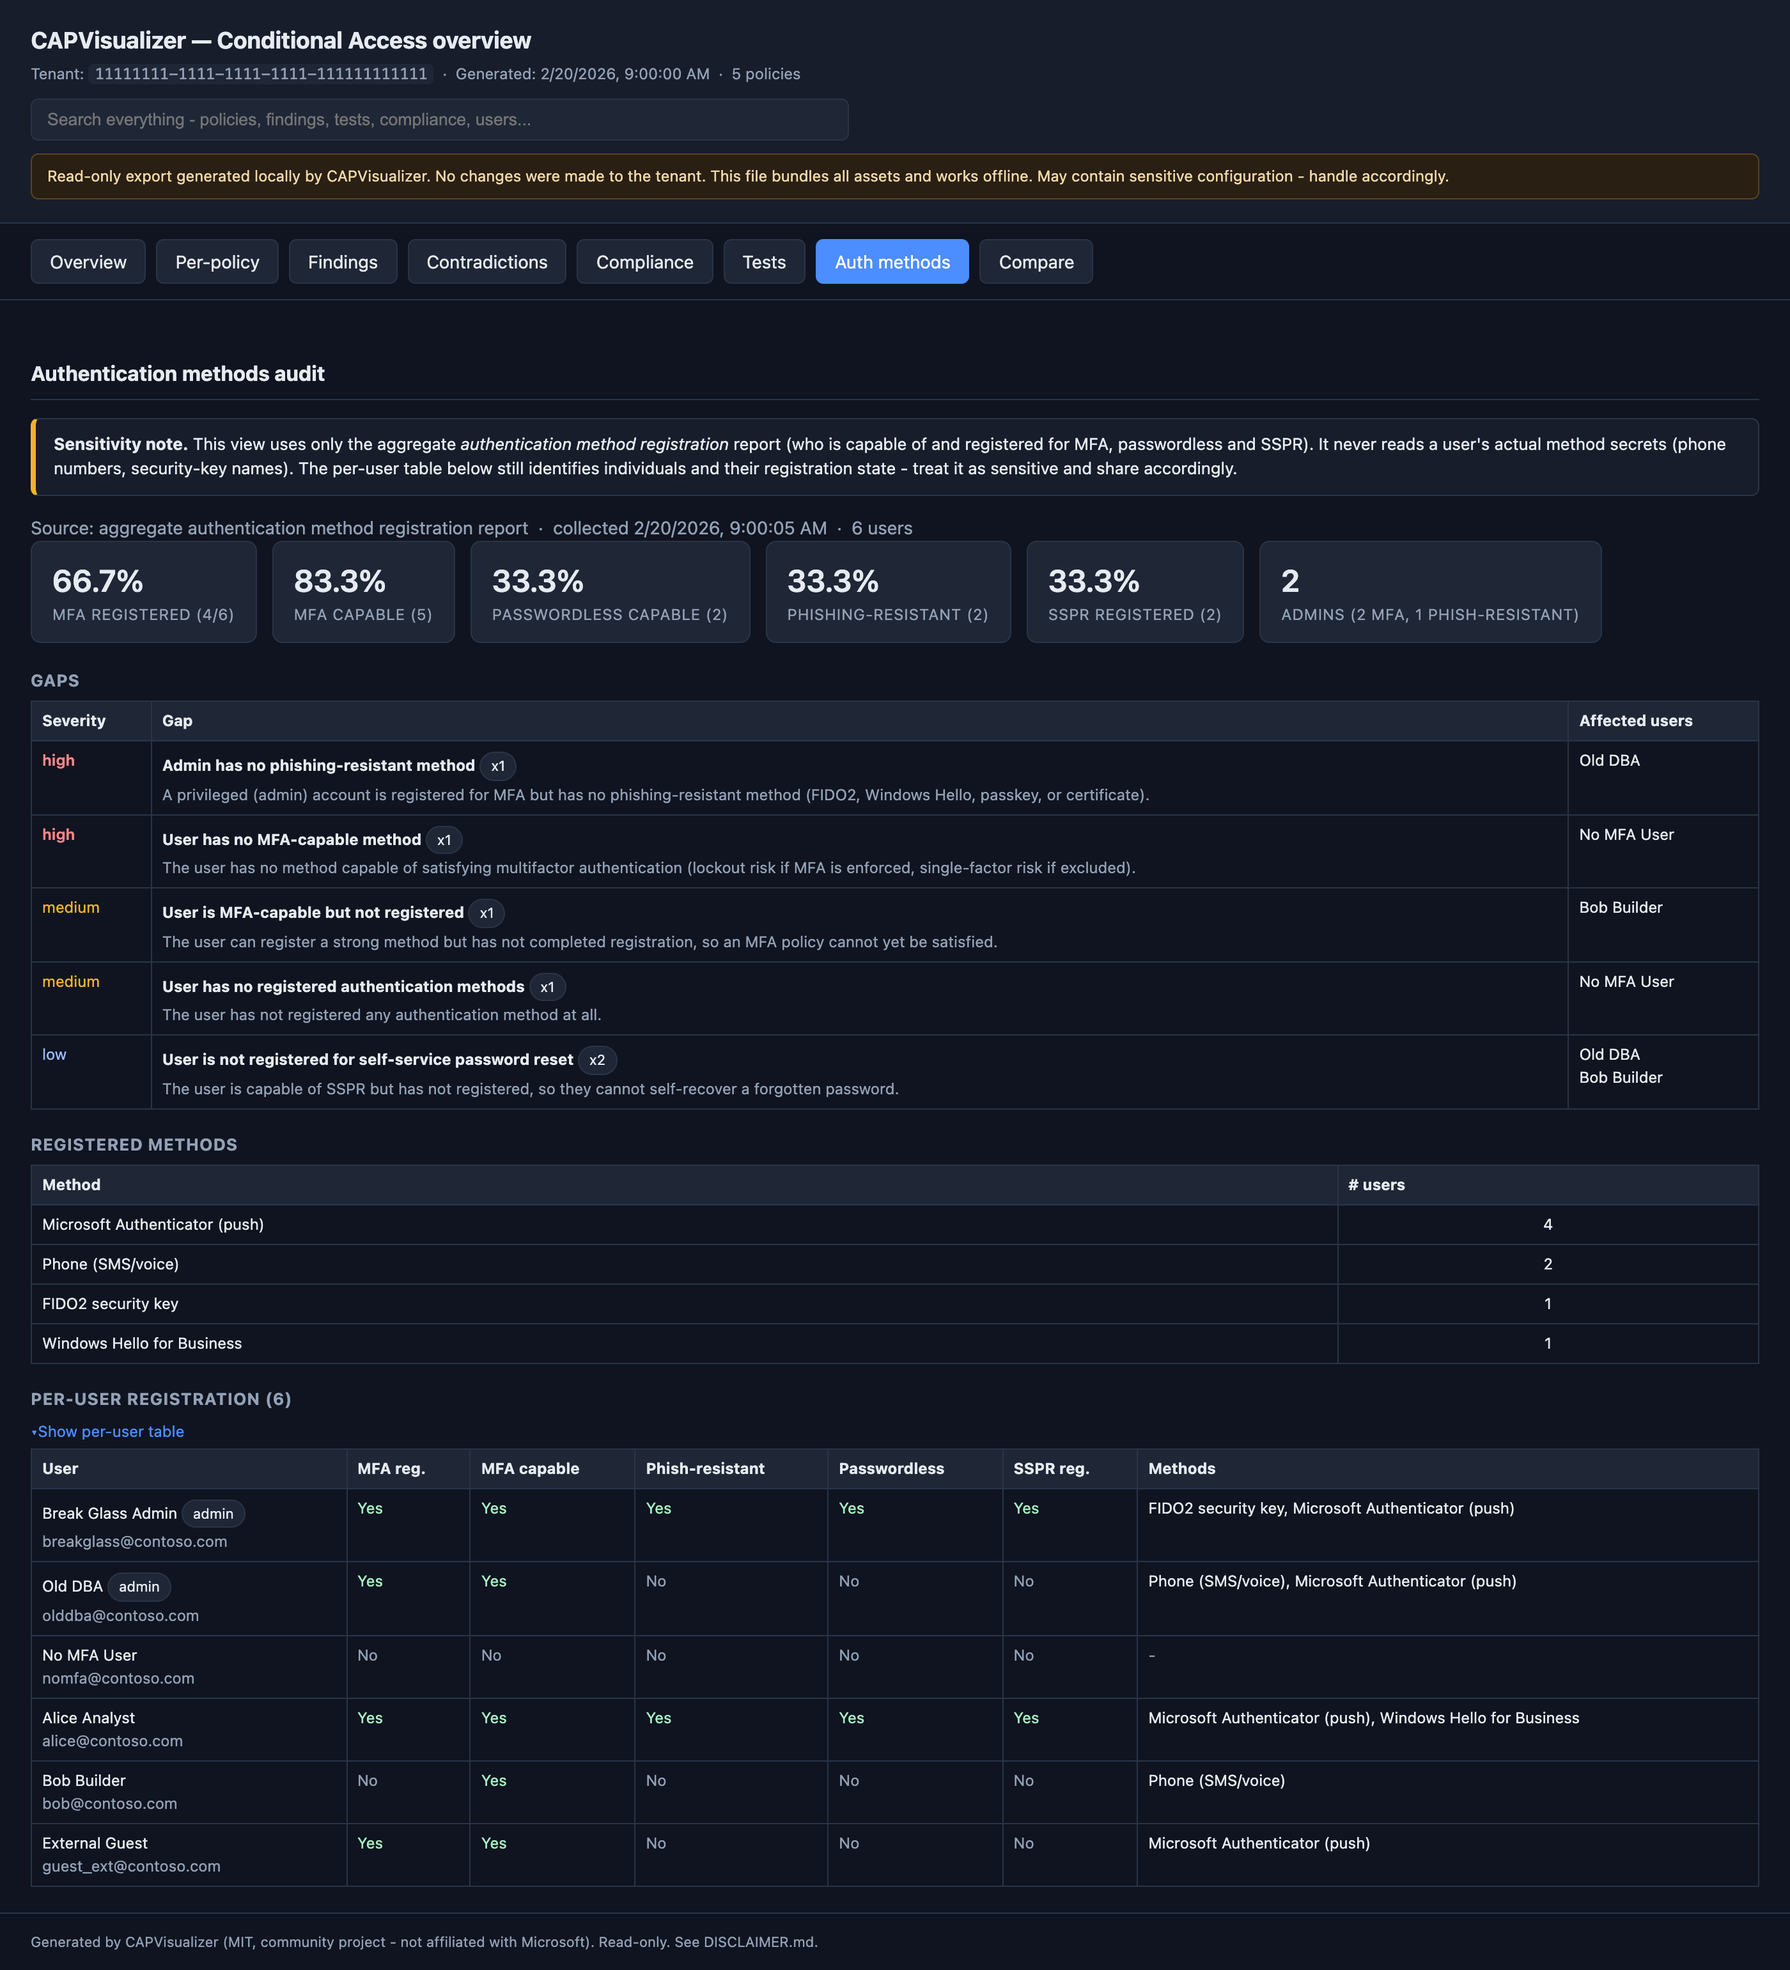
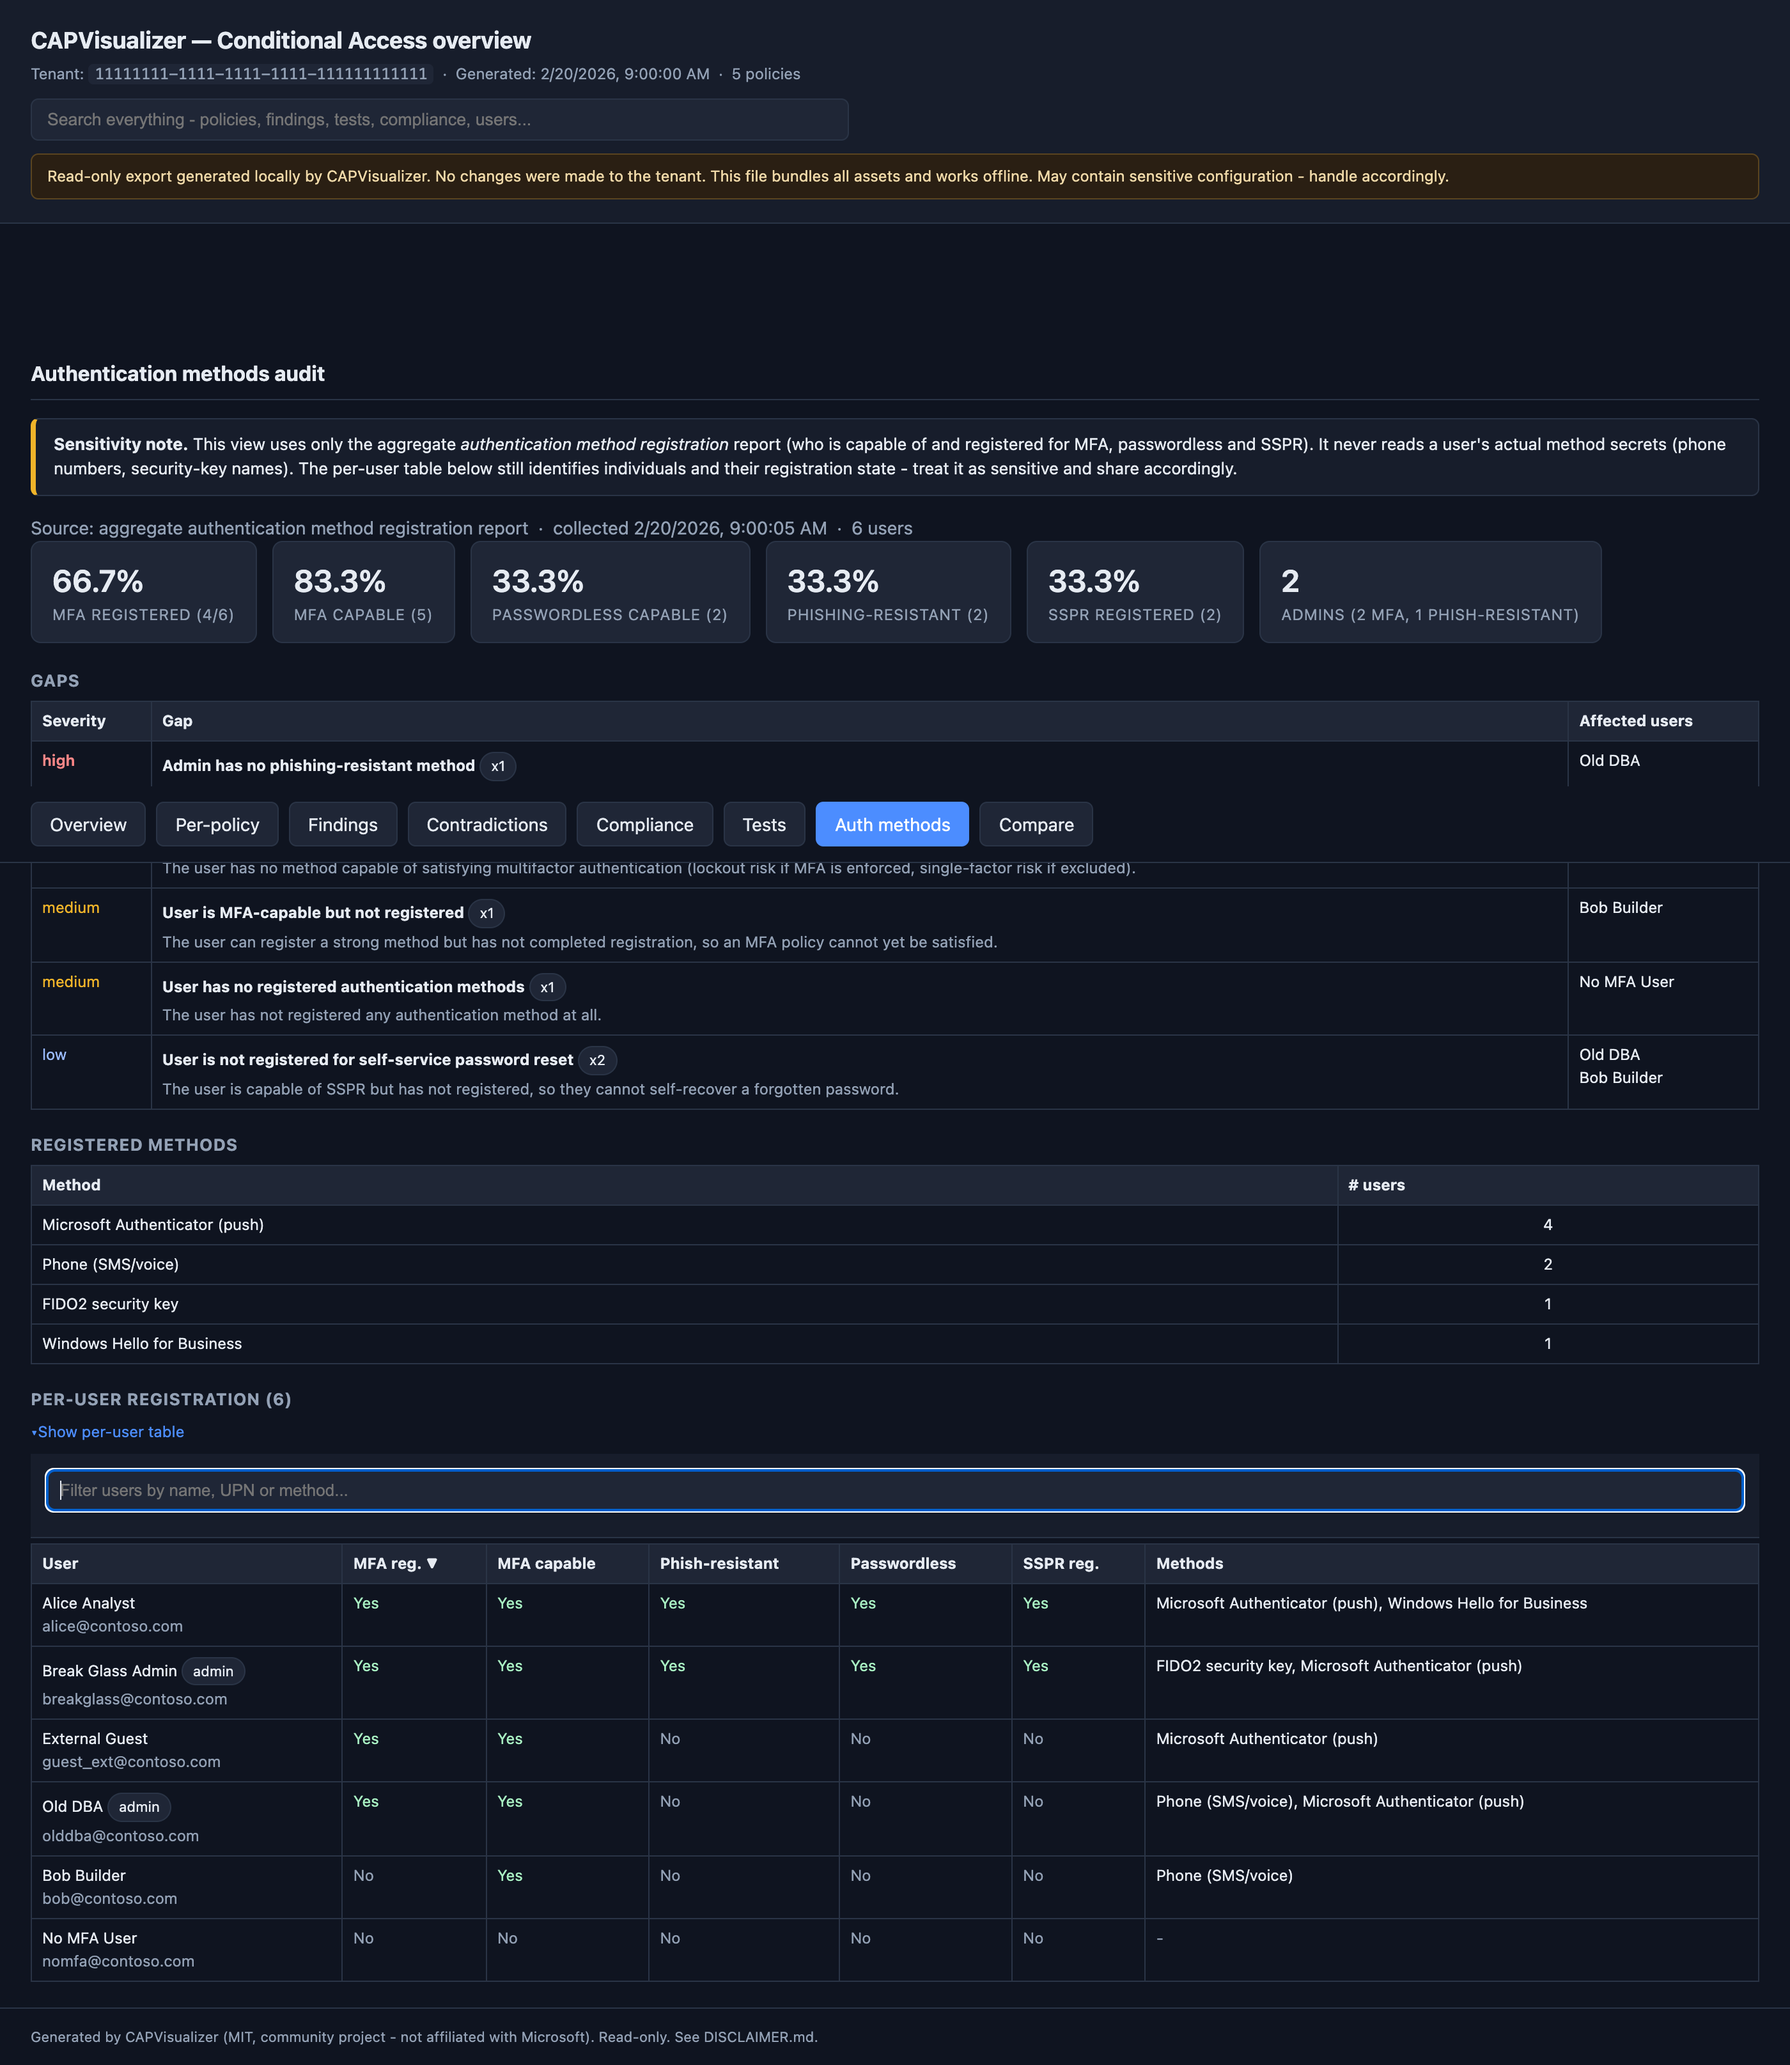
Add search and per-column sort to the auth-methods per-user table
The per-user registration table now has a filter box (matches display name,
UPN, or registered method label) and clickable, sortable column headers with an
asc/desc indicator. Boolean columns sort Yes-first by default; name and methods
sort ascending first.

diff --git a/assets/app.js b/assets/app.js
@@ -634,27 +634,89 @@
     // Per-user table (collapsible behind a details block, since it is sensitive).
     var methodLabel = {};
     mb.forEach(function (x) { methodLabel[x.method] = x.label || x.method; });
+    amMethodLabel = methodLabel;
+    amUsers = arr(a.users).map(function (u) {
+      return {
+        row: u,
+        displayName: String(nm(u.displayName || u.userPrincipalName || "")),
+        upn: String(u.userPrincipalName || ""),
+        methodsText: arr(u.methodsRegistered).map(function (m) { return methodLabel[m] || m; }).join(", ")
+      };
+    });
     var users = arr(a.users);
-    function yn(b, cls) { return b ? '<span class="' + (cls || "ok") + '">Yes</span>' : '<span class="muted">No</span>'; }
-    var urows = users.map(function (u) {
-      var methods = arr(u.methodsRegistered).map(function (m) { return esc(methodLabel[m] || m); }).join(", ");
-      return "<tr>" +
-        "<td>" + esc(nm(u.displayName || u.userPrincipalName)) + (u.isAdmin ? ' <span class="pill">admin</span>' : "") +
-        (u.userPrincipalName && u.displayName !== u.userPrincipalName ? "<div class=\"muted\">" + esc(u.userPrincipalName) + "</div>" : "") + "</td>" +
-        "<td>" + yn(u.isMfaRegistered) + "</td>" +
-        "<td>" + yn(u.isMfaCapable) + "</td>" +
-        "<td>" + yn(u.hasPhishResistant) + "</td>" +
-        "<td>" + yn(u.isPasswordlessCapable) + "</td>" +
-        "<td>" + yn(u.isSsprRegistered) + "</td>" +
-        "<td>" + (methods || '<span class="muted">-</span>') + "</td></tr>";
-    }).join("");
     var perUser = "<h3 style=\"margin:18px 0 6px\">Per-user registration (" + users.length + ")</h3>" +
       '<details class="affmore"' + (users.length <= 25 ? " open" : "") + '><summary>Show per-user table</summary>' +
-      '<table><thead><tr><th>User</th><th>MFA reg.</th><th>MFA capable</th><th>Phish-resistant</th><th>Passwordless</th><th>SSPR reg.</th><th>Methods</th></tr></thead><tbody>' +
-      (urows || '<tr><td colspan="7" class="muted">No users.</td></tr>') + "</tbody></table></details>";
+      '<div class="search" style="margin:8px 0 4px"><input id="amq" type="text" placeholder="Filter users by name, UPN or method..."></div>' +
+      '<div id="amUserTable"></div></details>';
 
     host.innerHTML = cards + gapsHtml + breakdown + perUser;
+    renderAuthUserTable();
+    var amq = el("amq");
+    if (amq) amq.addEventListener("input", function () { amState.q = amq.value; renderAuthUserTable(); });
     localizeStamps();
+  }
+
+  // State + column model for the sortable/searchable per-user table.
+  var amUsers = [], amMethodLabel = {};
+  var amState = { sort: "displayName", dir: 1, q: "" };
+  var AM_COLS = [
+    { key: "displayName", label: "User", type: "user" },
+    { key: "isMfaRegistered", label: "MFA reg.", type: "bool" },
+    { key: "isMfaCapable", label: "MFA capable", type: "bool" },
+    { key: "hasPhishResistant", label: "Phish-resistant", type: "bool" },
+    { key: "isPasswordlessCapable", label: "Passwordless", type: "bool" },
+    { key: "isSsprRegistered", label: "SSPR reg.", type: "bool" },
+    { key: "methodsText", label: "Methods", type: "methods" }
+  ];
+
+  function amSortVal(u, key) {
+    if (key === "displayName") return u.displayName.toLowerCase();
+    if (key === "methodsText") return u.row.methodCount || arr(u.row.methodsRegistered).length;
+    return u.row[key] ? 1 : 0;
+  }
+
+  function renderAuthUserTable() {
+    var host = el("amUserTable");
+    if (!host) return;
+    function yn(b) { return b ? '<span class="ok">Yes</span>' : '<span class="muted">No</span>'; }
+    var q = (amState.q || "").trim().toLowerCase();
+    var rows = amUsers.filter(function (u) {
+      if (!q) return true;
+      return (u.displayName + " " + u.upn + " " + u.methodsText).toLowerCase().indexOf(q) !== -1;
+    });
+    rows = rows.slice().sort(function (a, b) {
+      var av = amSortVal(a, amState.sort), bv = amSortVal(b, amState.sort);
+      if (av < bv) return -1 * amState.dir;
+      if (av > bv) return 1 * amState.dir;
+      return a.displayName.toLowerCase() < b.displayName.toLowerCase() ? -1 : 1;
+    });
+    var heads = AM_COLS.map(function (c) {
+      var active = amState.sort === c.key;
+      var arrow = active ? (amState.dir === 1 ? " \u25B2" : " \u25BC") : "";
+      return '<th class="amsort" data-key="' + esc(c.key) + '" style="cursor:pointer">' + esc(c.label) + arrow + "</th>";
+    }).join("");
+    var body = rows.map(function (u) {
+      var r = u.row;
+      return "<tr>" +
+        "<td>" + esc(u.displayName) + (r.isAdmin ? ' <span class="pill">admin</span>' : "") +
+        (u.upn && u.displayName !== u.upn ? "<div class=\"muted\">" + esc(u.upn) + "</div>" : "") + "</td>" +
+        "<td>" + yn(r.isMfaRegistered) + "</td>" +
+        "<td>" + yn(r.isMfaCapable) + "</td>" +
+        "<td>" + yn(r.hasPhishResistant) + "</td>" +
+        "<td>" + yn(r.isPasswordlessCapable) + "</td>" +
+        "<td>" + yn(r.isSsprRegistered) + "</td>" +
+        "<td>" + (u.methodsText ? esc(u.methodsText) : '<span class="muted">-</span>') + "</td></tr>";
+    }).join("");
+    host.innerHTML = '<table><thead><tr>' + heads + "</tr></thead><tbody>" +
+      (body || '<tr><td colspan="7" class="muted">No users match the filter.</td></tr>') + "</tbody></table>";
+    host.querySelectorAll(".amsort").forEach(function (th) {
+      th.onclick = function () {
+        var k = th.getAttribute("data-key");
+        if (amState.sort === k) { amState.dir = -amState.dir; }
+        else { amState.sort = k; amState.dir = (k === "displayName" || k === "methodsText") ? 1 : -1; }
+        renderAuthUserTable();
+      };
+    });
   }
 
   function selectPolicy(i) {
